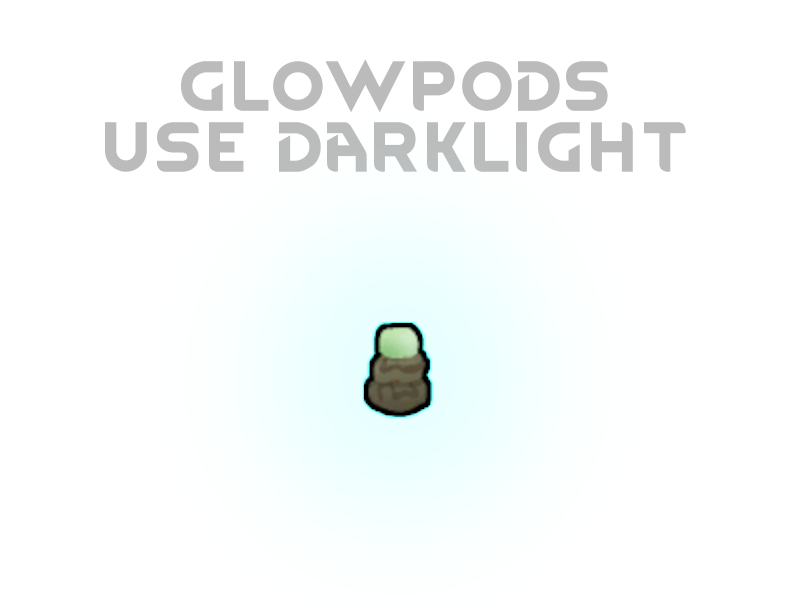
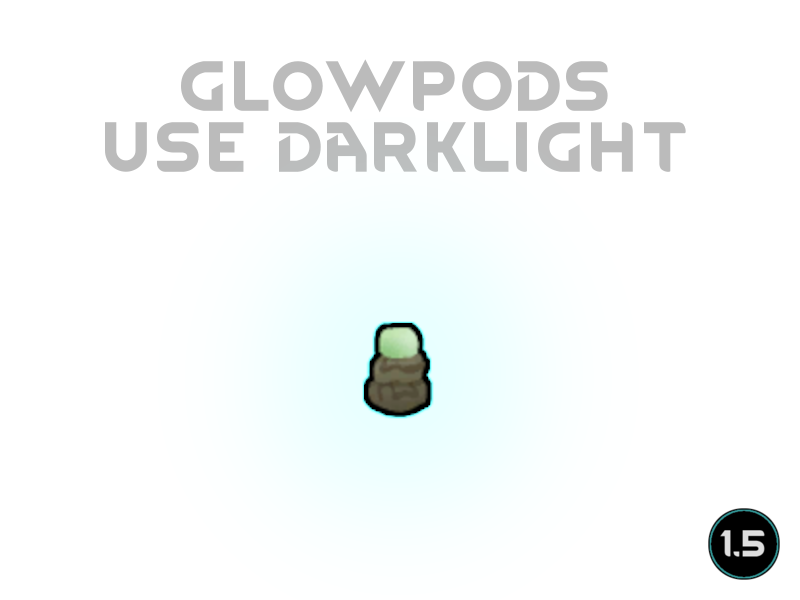
Mod updated for 1.5 and passed autotests

Changed region(s): [[0.875, 0.84, 1.0, 0.99]]

diff --git a/README.md b/README.md
@@ -1,6 +1,6 @@
 # GlowpodsUseDarklight
 
-![Image](https://i.imgur.com/buuPQel.png)
+![Image](https://i.imgur.com/iCj5o7O.png)
 
 
 A simple patchmod that makes glowpods count as darklight. 
@@ -10,24 +10,26 @@ Requires Ideology.
 
 Idea by: Valliecane
 	
-![Image](https://i.imgur.com/O0IIlYj.png)
+![Image](https://i.imgur.com/Ds0rBAD.png)
 
 Since modding is just a hobby for me I expect no donations to keep modding. If you still want to show your support you can gift me anything from my https://store.steampowered.com/wishlist/id/Mlie]Wishlist or buy me a cup of tea.
 
-https://ko-fi.com/G2G55DDYD]![Image](https://i.imgur.com/Utx6OIH.png)
+https://ko-fi.com/G2G55DDYD]![Image](https://i.imgur.com/VWG0yff.png)
 
 
-![Image](https://i.imgur.com/PwoNOj4.png)
+![Image](https://i.imgur.com/5xwDG6H.png)
 
 
 
 -  See if the the error persists if you just have this mod and its requirements active.
 -  If not, try adding your other mods until it happens again.
--  Post your error-log using https://steamcommunity.com/workshop/filedetails/?id=818773962]HugsLib and command Ctrl+F12
+-  Post your error-log using https://steamcommunity.com/workshop/filedetails/?id=818773962]HugsLib or the standalone https://steamcommunity.com/sharedfiles/filedetails/?id=2873415404]Uploader and command Ctrl+F12
 -  For best support, please use the Discord-channel for error-reporting.
 -  Do not report errors by making a discussion-thread, I get no notification of that.
 -  If you have the solution for a problem, please post it to the GitHub repository.
+-  Use https://github.com/RimSort/RimSort/releases/latest]RimSort to sort your mods
 
 
 
+https://steamcommunity.com/sharedfiles/filedetails/changelog/2738028630]![Image](https://img.shields.io/github/v/release/emipa606/GlowpodsUseDarklight?label=latest%20version&style=plastic&labelColor=0070cd&color=white)
 
